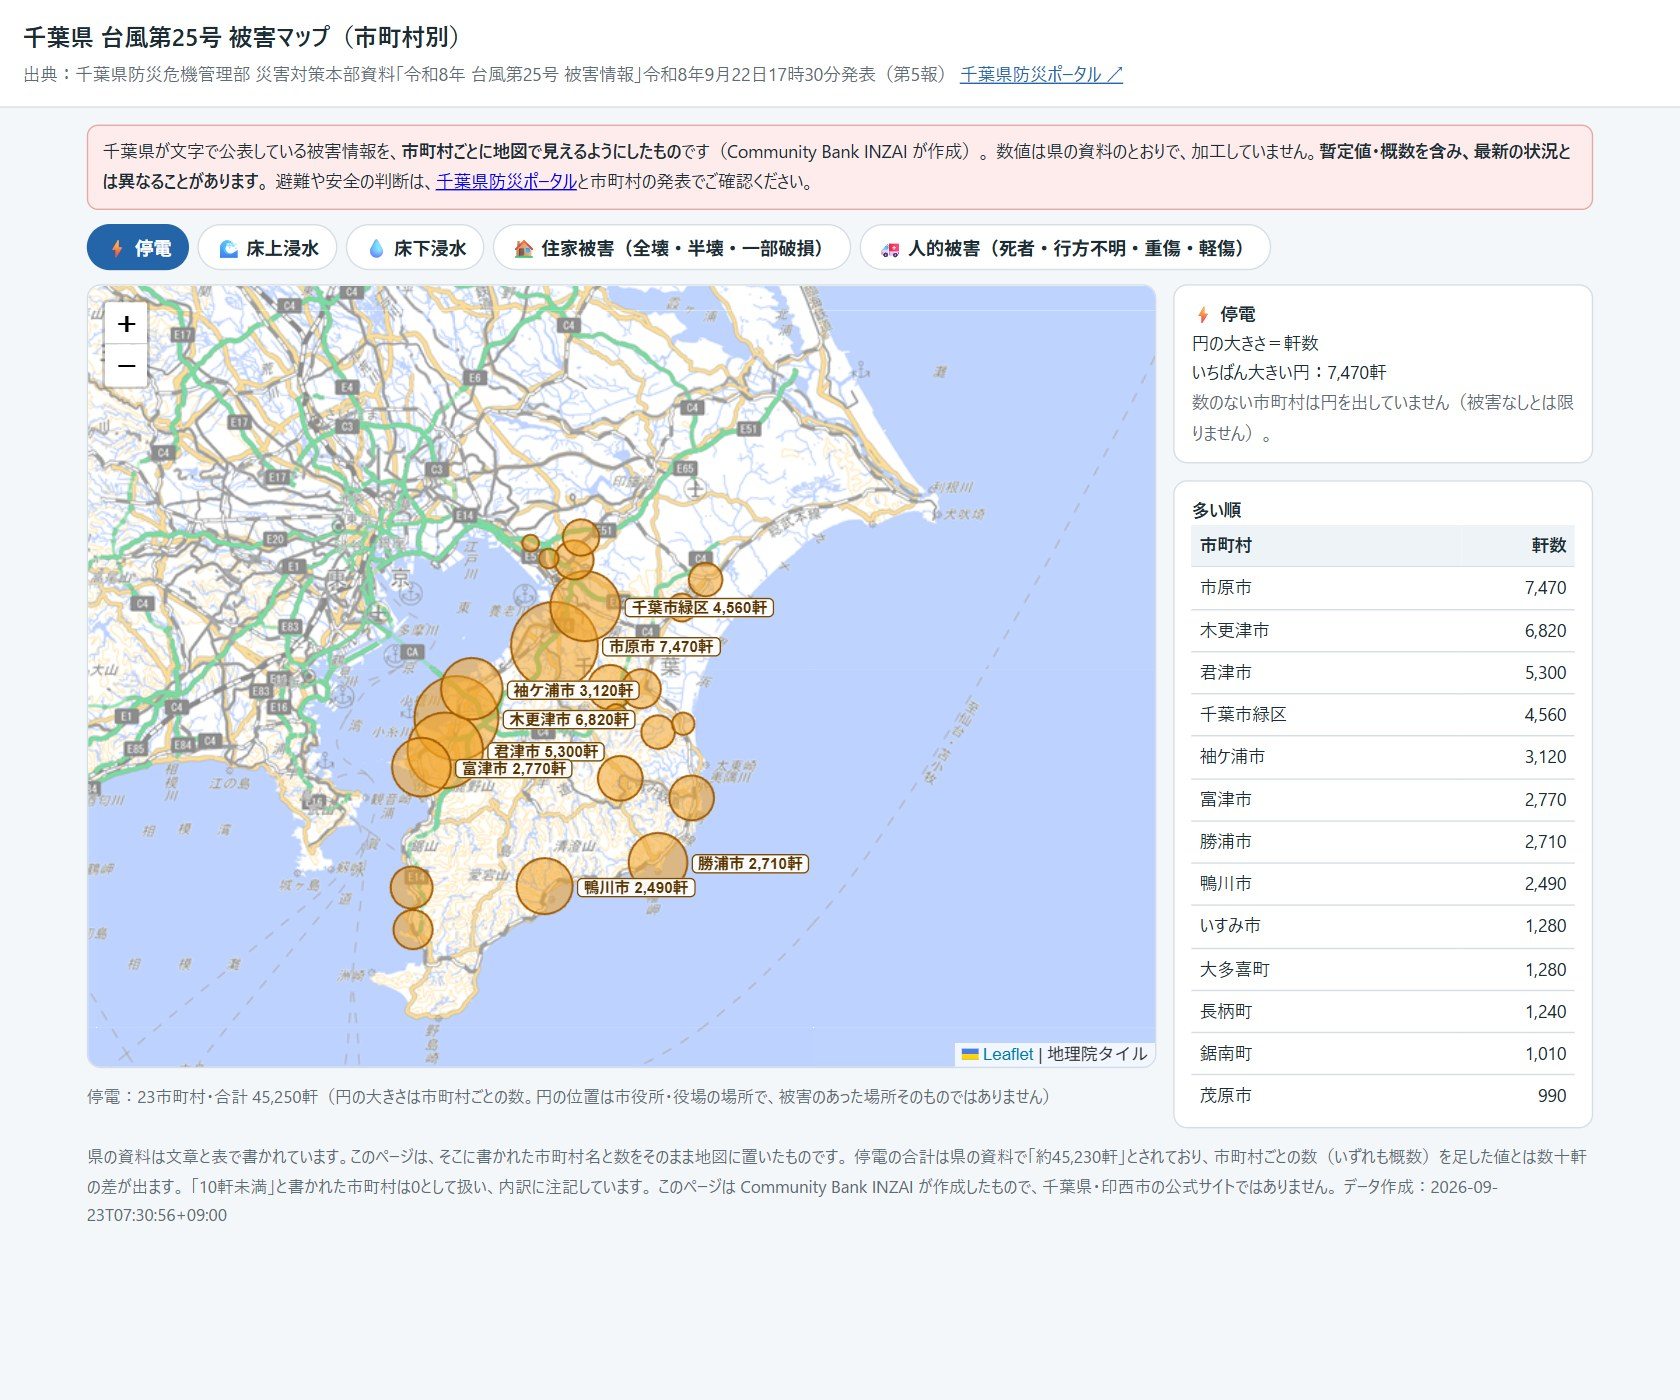
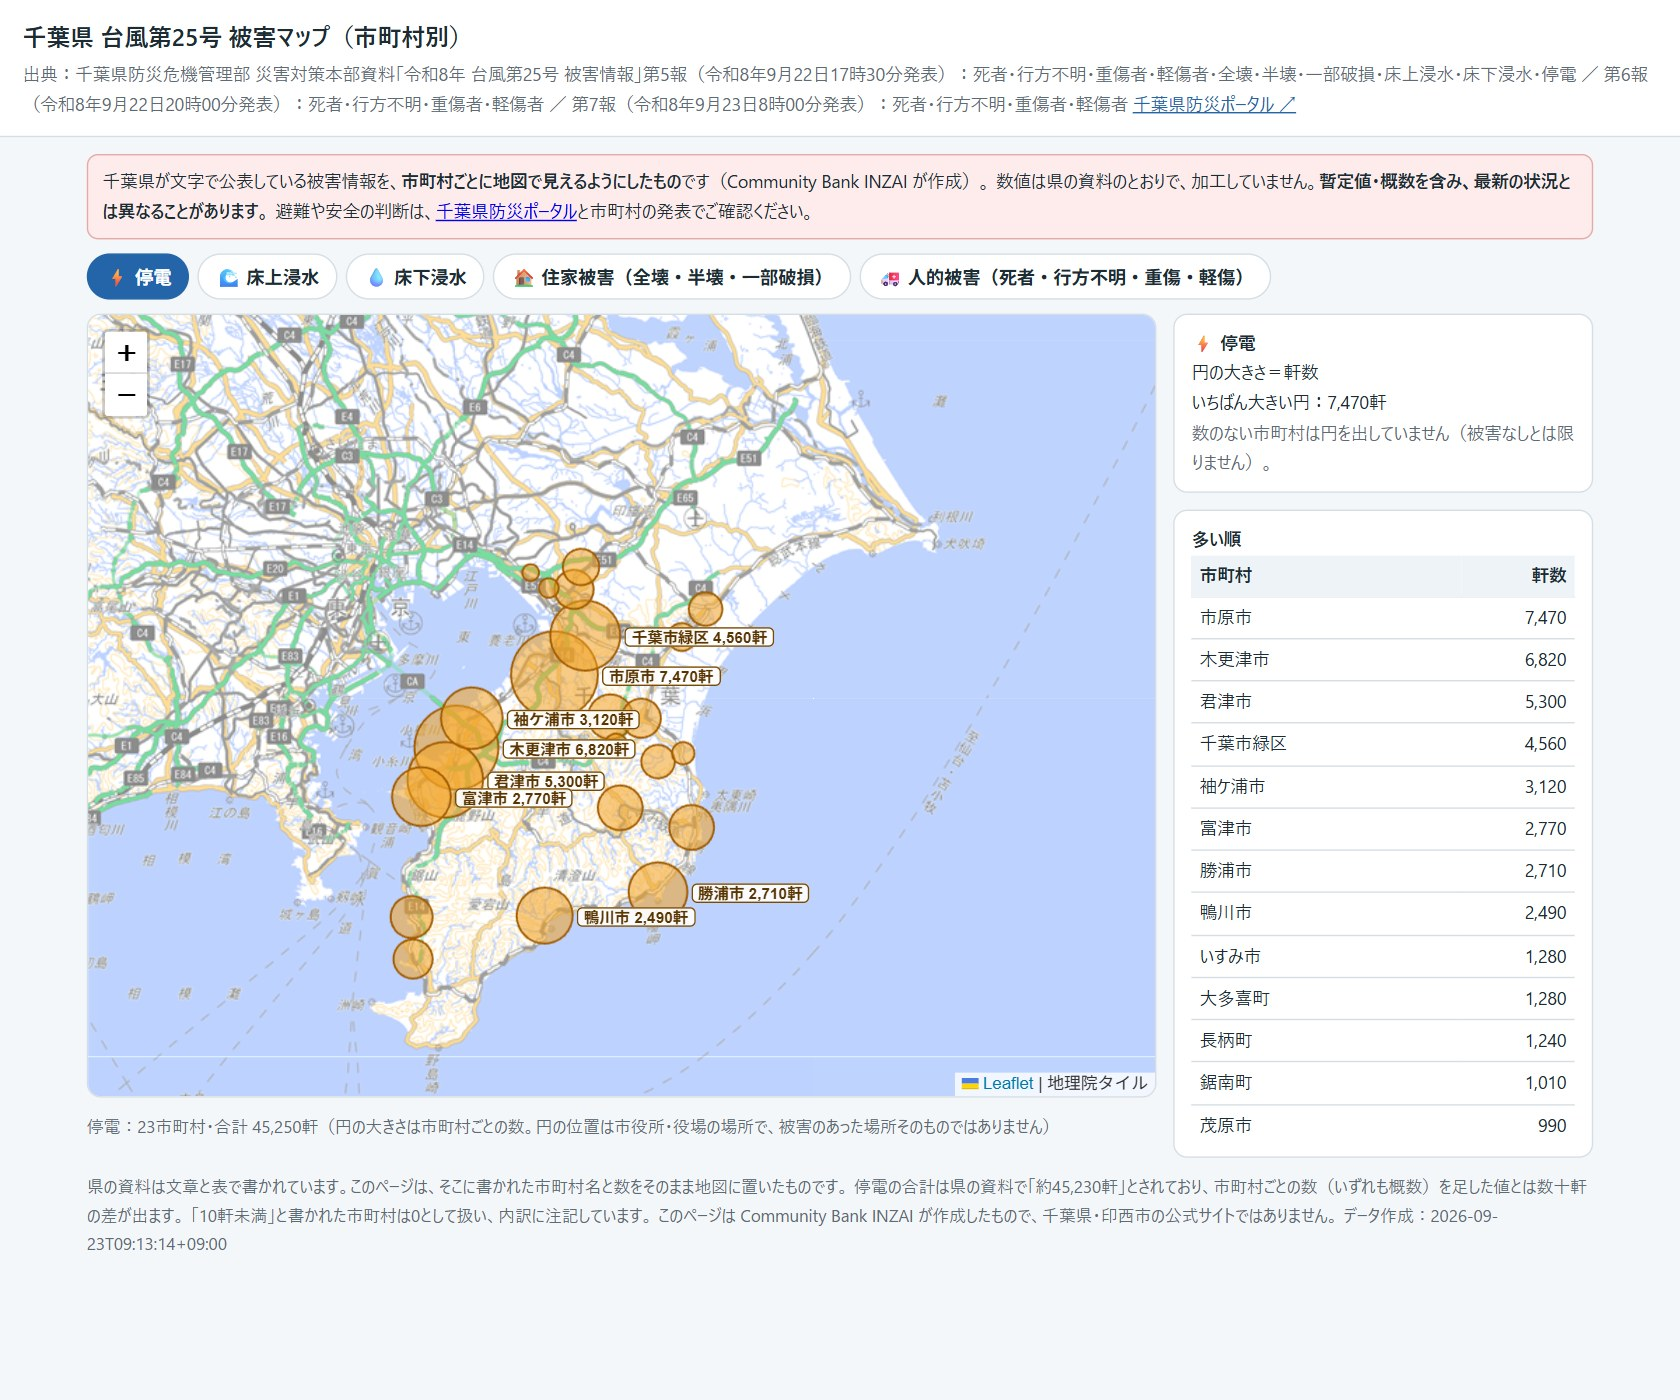
千葉県被害マップの告知：第7報を受けて画像と文面を差し替え

Changed region(s): [[0.031, 0.0307, 0.9905, 0.8907], [0.5571, 0.4914, 0.5881, 0.5529], [0.5262, 0.5529, 0.5571, 0.5836]]

diff --git a/assets/sns/2026-09-23_chiba_higai/投稿文.md b/assets/sns/2026-09-23_chiba_higai/投稿文.md
@@ -1,24 +1,24 @@
 # 千葉県 台風25号 被害マップ 公開の告知 2026-09-23
 
-- 画像：map_teiden.jpg（停電の表示）／map_shinsui.jpg（床上浸水の表示・カルーセル用）
+- 画像：map_teiden.jpg（停電）／map_jinteki.jpg（人的被害）
 - 投稿先：Threads／Instagram／Facebook（CBI予約投稿キュー）
-- 出典：千葉県防災危機管理部「令和8年 台風第25号 被害情報」第5報（9/22 17:30発表）
+- 出典：千葉県防災危機管理部「令和8年 台風第25号 被害情報」第5報（9/22 17:30）＋第6報（9/22 20:00）＋第7報（9/23 8:00・人的被害の更新）
+- ⚠ 9/23 8:00 の第7報で印西市の死者1名が発表されたため、当初案（図にすると見える世界が変わる、という趣旨）は取り下げ、この文面に書き換えた
 
 ## 本文
 
-【台風25号の被害を、市町村ごとの地図にしました】
+【台風25号の被害を、市町村ごとの地図にまとめています】
 
-千葉県の被害情報は、文章と表で発表されています。数字は全部そこに書いてあるのに、「どこが、どれだけ大変なのか」は読み取るのに時間がかかります。
+千葉県が文章と表で発表している被害情報を、そのまま市町村ごとの地図にしました。
 
-同じ数字を地図に置くと、見えるものが変わります。
-房総半島の南側に停電が集中していること、佐倉市の床上浸水300棟が突出していることが、ひと目で分かります。
+9月23日8時の第7報で、印西市でも死者1名が発表されました。亡くなられた方にお悔やみを申し上げます。
 
-⚡ 停電／🌊 床上浸水／💧 床下浸水／🏠 住家被害／🚑 人的被害 を切り替えられます。円の大きさが被害の大きさ、タップすると市町村ごとの内訳が出ます。
+地図では、⚡停電／🌊床上浸水／💧床下浸水／🏠住家被害／🚑人的被害を切り替えて、県内のどこでどれだけの被害が出ているかを確認できます。円の大きさが被害の大きさ、タップすると市町村ごとの内訳が出ます。
 
-▼ 地図はこちら
+▼ 地図
 https://communitybankinzai.github.io/cbi-site/chiba-typhoon25/
 
-数値は千葉県の発表（9月22日17時30分・第5報）のままで、加工していません。暫定値・概数を含みます。避難や安全の判断は、千葉県防災ポータルと各市町村の発表をご確認ください。
-※このページはCBIが自主的に作ったもので、千葉県・印西市の公式サイトではありません。
+数値は千葉県の発表のままで、加工していません。暫定値・概数を含みます。避難や安全の判断は、千葉県防災ポータルと各市町村の発表をご確認ください。
+※CBIが自主的に作ったもので、千葉県・印西市の公式サイトではありません。
 
-#印西市 #千葉県 #台風25号 #防災 #CommunityBankINZAI
+#印西市 #千葉県 #台風25号 #防災
